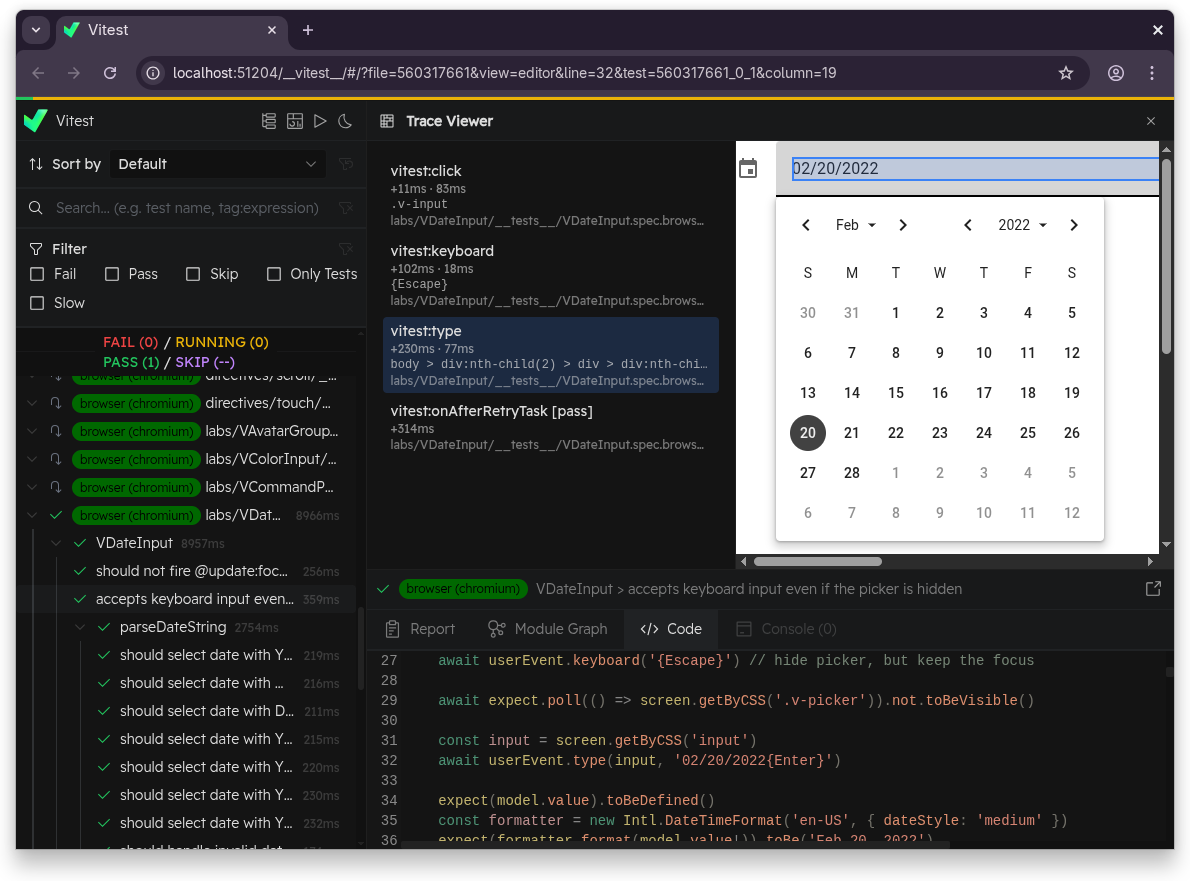
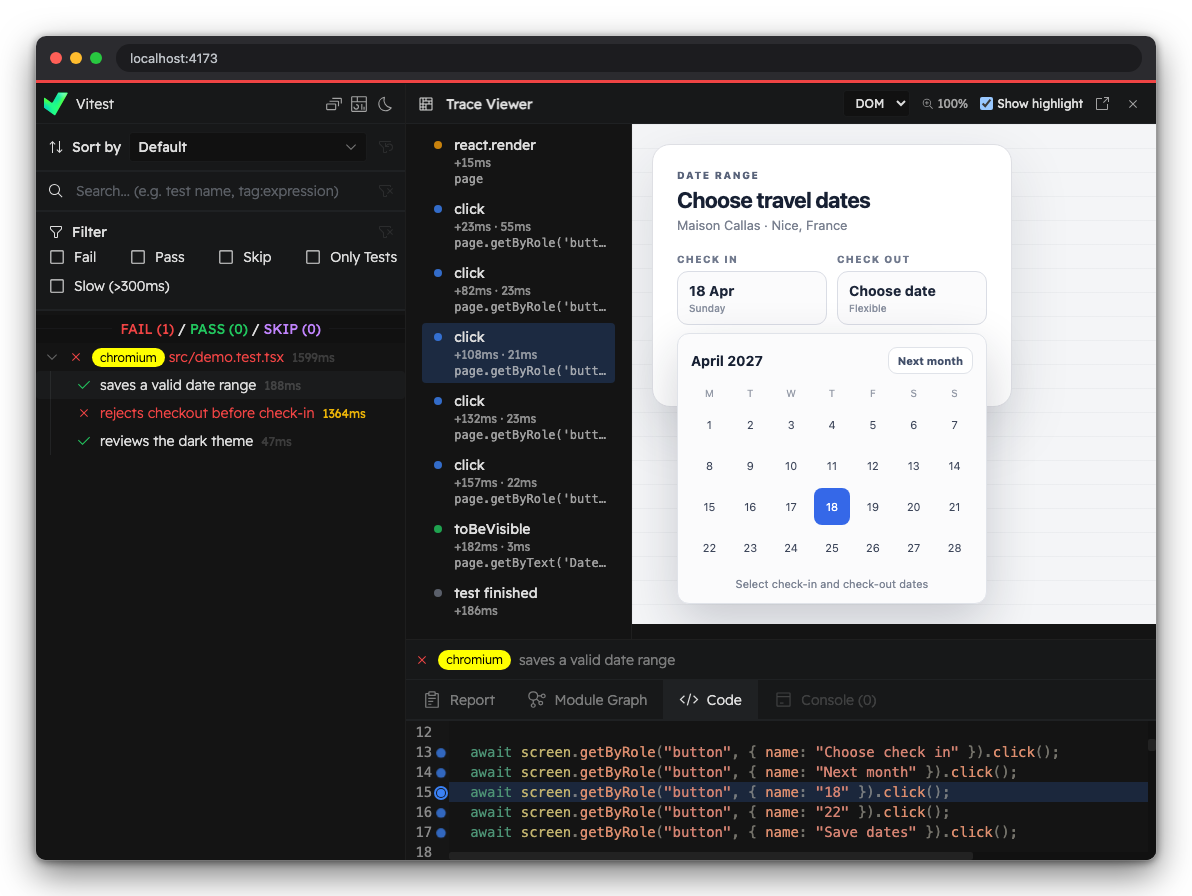
docs(browser): update trace view demo screenshots (#11826)

diff --git a/guide/browser/trace-view.md b/guide/browser/trace-view.md
@@ -68,12 +68,10 @@ The viewer has two resizable panes:
 - **Step list** (left) shows every recorded action, assertion, mark, and lifecycle entry, with its name, timing, selector, and source location. Failed actions and assertions are highlighted in red.
 - **DOM snapshot** (right) shows the page at the selected step, with the interacted element highlighted in blue. When only failed tests are recorded, the snapshot is taken at the end of the test.
 
-Selecting a step also opens its source location in the Editor tab when that location is available.
+Selecting a step also opens its source location in the Code tab when that location is available.
 
-<img alt="Vitest UI trace viewer showing step list and DOM snapshot" img-light src="/browser/trace-view-light.png">
-<img alt="Vitest UI trace viewer showing step list and DOM snapshot" img-dark src="/browser/trace-view-dark.png">
-
-<small>Example replay uses [Vuetify's](https://github.com/vuetifyjs/vuetify) `VDateInput` component.</small>
+<img alt="HTML report trace viewer showing step list and DOM snapshot" img-light src="/browser/trace-view-light.png">
+<img alt="HTML report trace viewer showing step list and DOM snapshot" img-dark src="/browser/trace-view-dark.png">
 
 ## Recorded Steps
 
@@ -132,6 +130,9 @@ Each retry or repeat of a test is recorded as a separate trace. The viewer opens
 ## Accessibility Tree <Version>5.1.0</Version> {#accessibility-tree}
 
 Trace view also captures the page's accessibility tree with each snapshot. The view selector in the trace viewer header switches the snapshot pane between **DOM** and **Aria**. The Aria view lists the roles, accessible names, and states that role-based locators such as `getByRole()` see, in the same format as [aria snapshots](/guide/browser/aria-snapshots). Set [`traceView.ariaSnapshot`](/config/browser/traceview#traceview-ariasnapshot) to `false` to disable it.
+
+<img alt="HTML report trace viewer showing step list and Aria snapshot" img-light src="/browser/trace-view-aria-light.png">
+<img alt="HTML report trace viewer showing step list and Aria snapshot" img-dark src="/browser/trace-view-aria-dark.png">
 
 ## What Snapshots Capture
 
